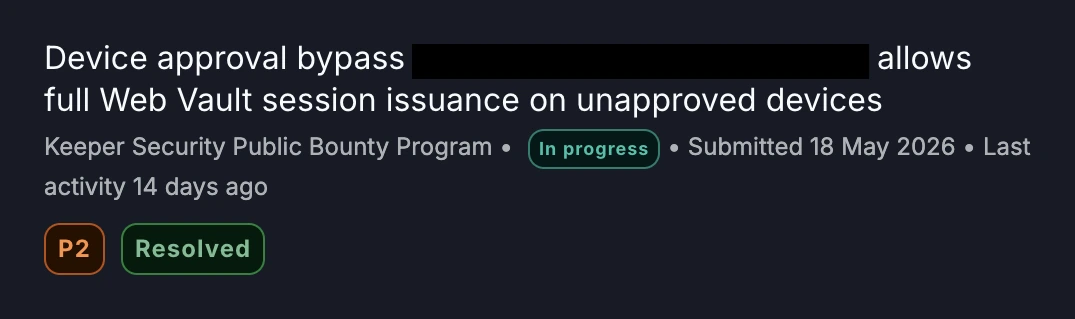
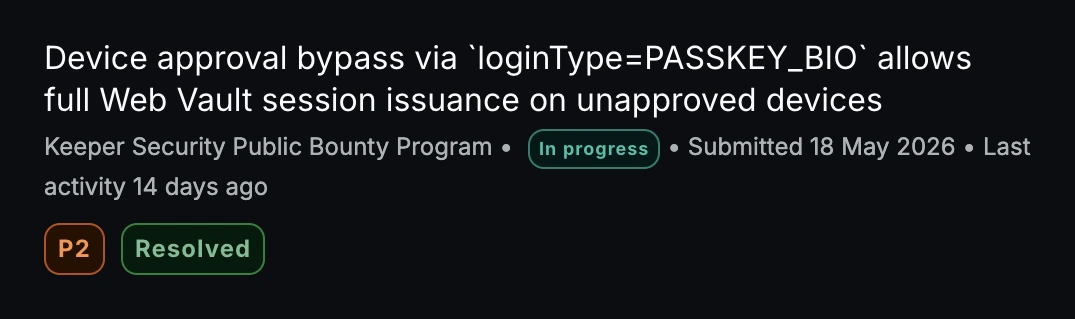
Use the unredacted device approval bypass report card
Claude-Session: https://claude.ai/code/session_01QfuiF7DMeh25EAkf2p2X1x

Changed region(s): [[0.3684, 0.1411, 0.7981, 0.2539]]

diff --git a/index.html b/index.html
@@ -28,7 +28,7 @@
 </article>
 <article class="security-finding" id="device-approval-bypass" aria-labelledby="device-approval-heading">
 <div class="finding-meta"><p class="finding-vendor">Keeper Security</p><p class="finding-severity">High (P2)</p><p class="finding-status">Resolved</p></div>
-<div class="finding-story"><h3 id="device-approval-heading">Device approval bypass</h3><p class="finding-deck">Fixed a device approval bypass in the biometric/passkey login flow. An affected request could skip device approval and proceed to authentication. Authentication, MFA, biometric checks, and brute-force protection remained enforced.</p><p class="finding-deck">Keeper released the fix in Backend API 18.1.0 within 24 hours of validating the report and publicly credited Karl Seryani.</p><figure class="finding-shot"><img src="assets/findings/keeper-device-approval-bypass.webp" alt="Redacted Bugcrowd report card: Device approval bypass allowing Web Vault sessions on unapproved devices, P2, Resolved" width="1075" height="319" loading="lazy" decoding="async"></figure><a class="writeup-link" href="https://docs.keeper.io/release-notes/backend/backend-api/backend-api-18.1.0">View Keeper’s recognition <span aria-hidden="true">→</span></a></div>
+<div class="finding-story"><h3 id="device-approval-heading">Device approval bypass</h3><p class="finding-deck">Fixed a device approval bypass in the biometric/passkey login flow. An affected request could skip device approval and proceed to authentication. Authentication, MFA, biometric checks, and brute-force protection remained enforced.</p><p class="finding-deck">Keeper released the fix in Backend API 18.1.0 within 24 hours of validating the report and publicly credited Karl Seryani.</p><figure class="finding-shot"><img src="assets/findings/keeper-device-approval-bypass.webp" alt="Bugcrowd report card: Device approval bypass via loginType=PASSKEY_BIO allows Web Vault sessions on unapproved devices, P2, Resolved" width="1075" height="319" loading="lazy" decoding="async"></figure><a class="writeup-link" href="https://docs.keeper.io/release-notes/backend/backend-api/backend-api-18.1.0">View Keeper’s recognition <span aria-hidden="true">→</span></a></div>
 </article>
 <article class="security-finding" id="nasa-stored-xss" aria-labelledby="nasa-finding-heading">
 <div class="finding-meta"><p class="finding-vendor">NASA</p><p class="finding-severity">High (P2)</p><p class="finding-status">Unresolved</p></div>
